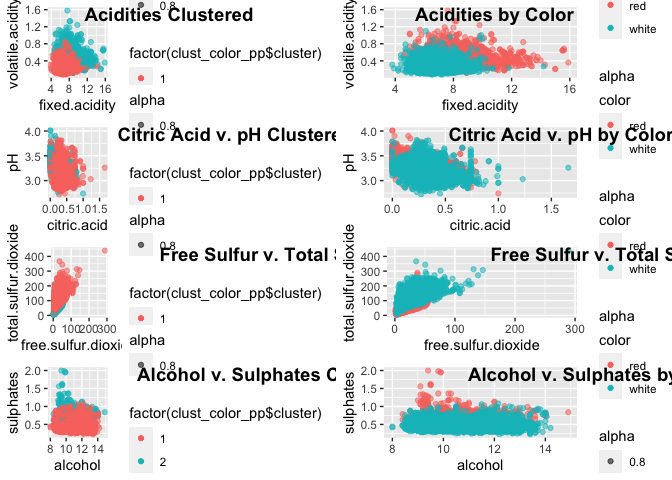
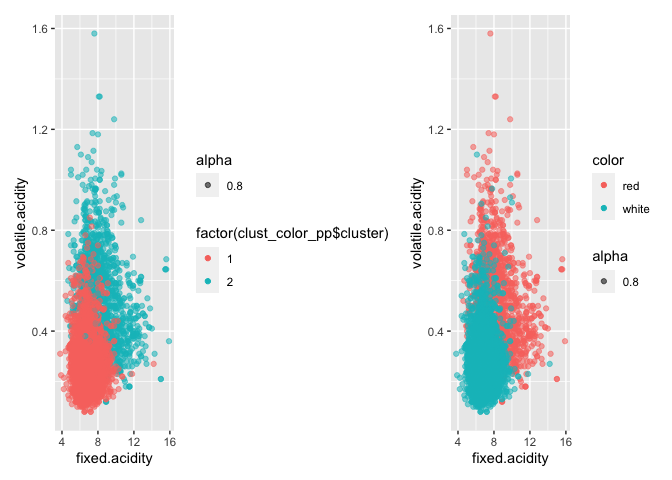
fixed plots - they were cluttered

diff --git a/Wine/wine.md b/Wine/wine.md
@@ -485,7 +485,7 @@ the wine color and quality plots to determine the actual vs. predicted
 groupings.We will visualize the various relationships of various
 features and how well K-Means++ has clustered the labels.
 
-![](wine_files/figure-markdown_github/unnamed-chunk-4-1.png)
+![](wine_files/figure-markdown_github/unnamed-chunk-4-1.png)![](wine_files/figure-markdown_github/unnamed-chunk-4-2.png)![](wine_files/figure-markdown_github/unnamed-chunk-4-3.png)![](wine_files/figure-markdown_github/unnamed-chunk-4-4.png)
 
 Above, we observe various feature relationships in two dimensions.
 Unfortunately, observing all 11 features in 11 dimensions would be quite
@@ -495,7 +495,7 @@ par. The nice component of this analysis is the interpretability. There
 seems to be a relatively clear distinction between red and white wines,
 and the features represented here strongly indicate association
 
-![](wine_files/figure-markdown_github/unnamed-chunk-5-1.png)
+![](wine_files/figure-markdown_github/unnamed-chunk-5-1.png)![](wine_files/figure-markdown_github/unnamed-chunk-5-2.png)![](wine_files/figure-markdown_github/unnamed-chunk-5-3.png)![](wine_files/figure-markdown_github/unnamed-chunk-5-4.png)
 
 Observing the same relationships but for wine quality, we see the
 interpretations are substantially more ambiguous and perhaps even
@@ -731,6 +731,7 @@ pH and alcohol are positive. PC3 is similar but still different from
 PC1.
 
 ![](wine_files/figure-markdown_github/unnamed-chunk-9-1.png)![](wine_files/figure-markdown_github/unnamed-chunk-9-2.png)
+
 As the clustering methods showed, the color of the wine is easily
 separated by principle components and they are easily distinguished. We
 can also make the same conclusion about the quality level of wine
